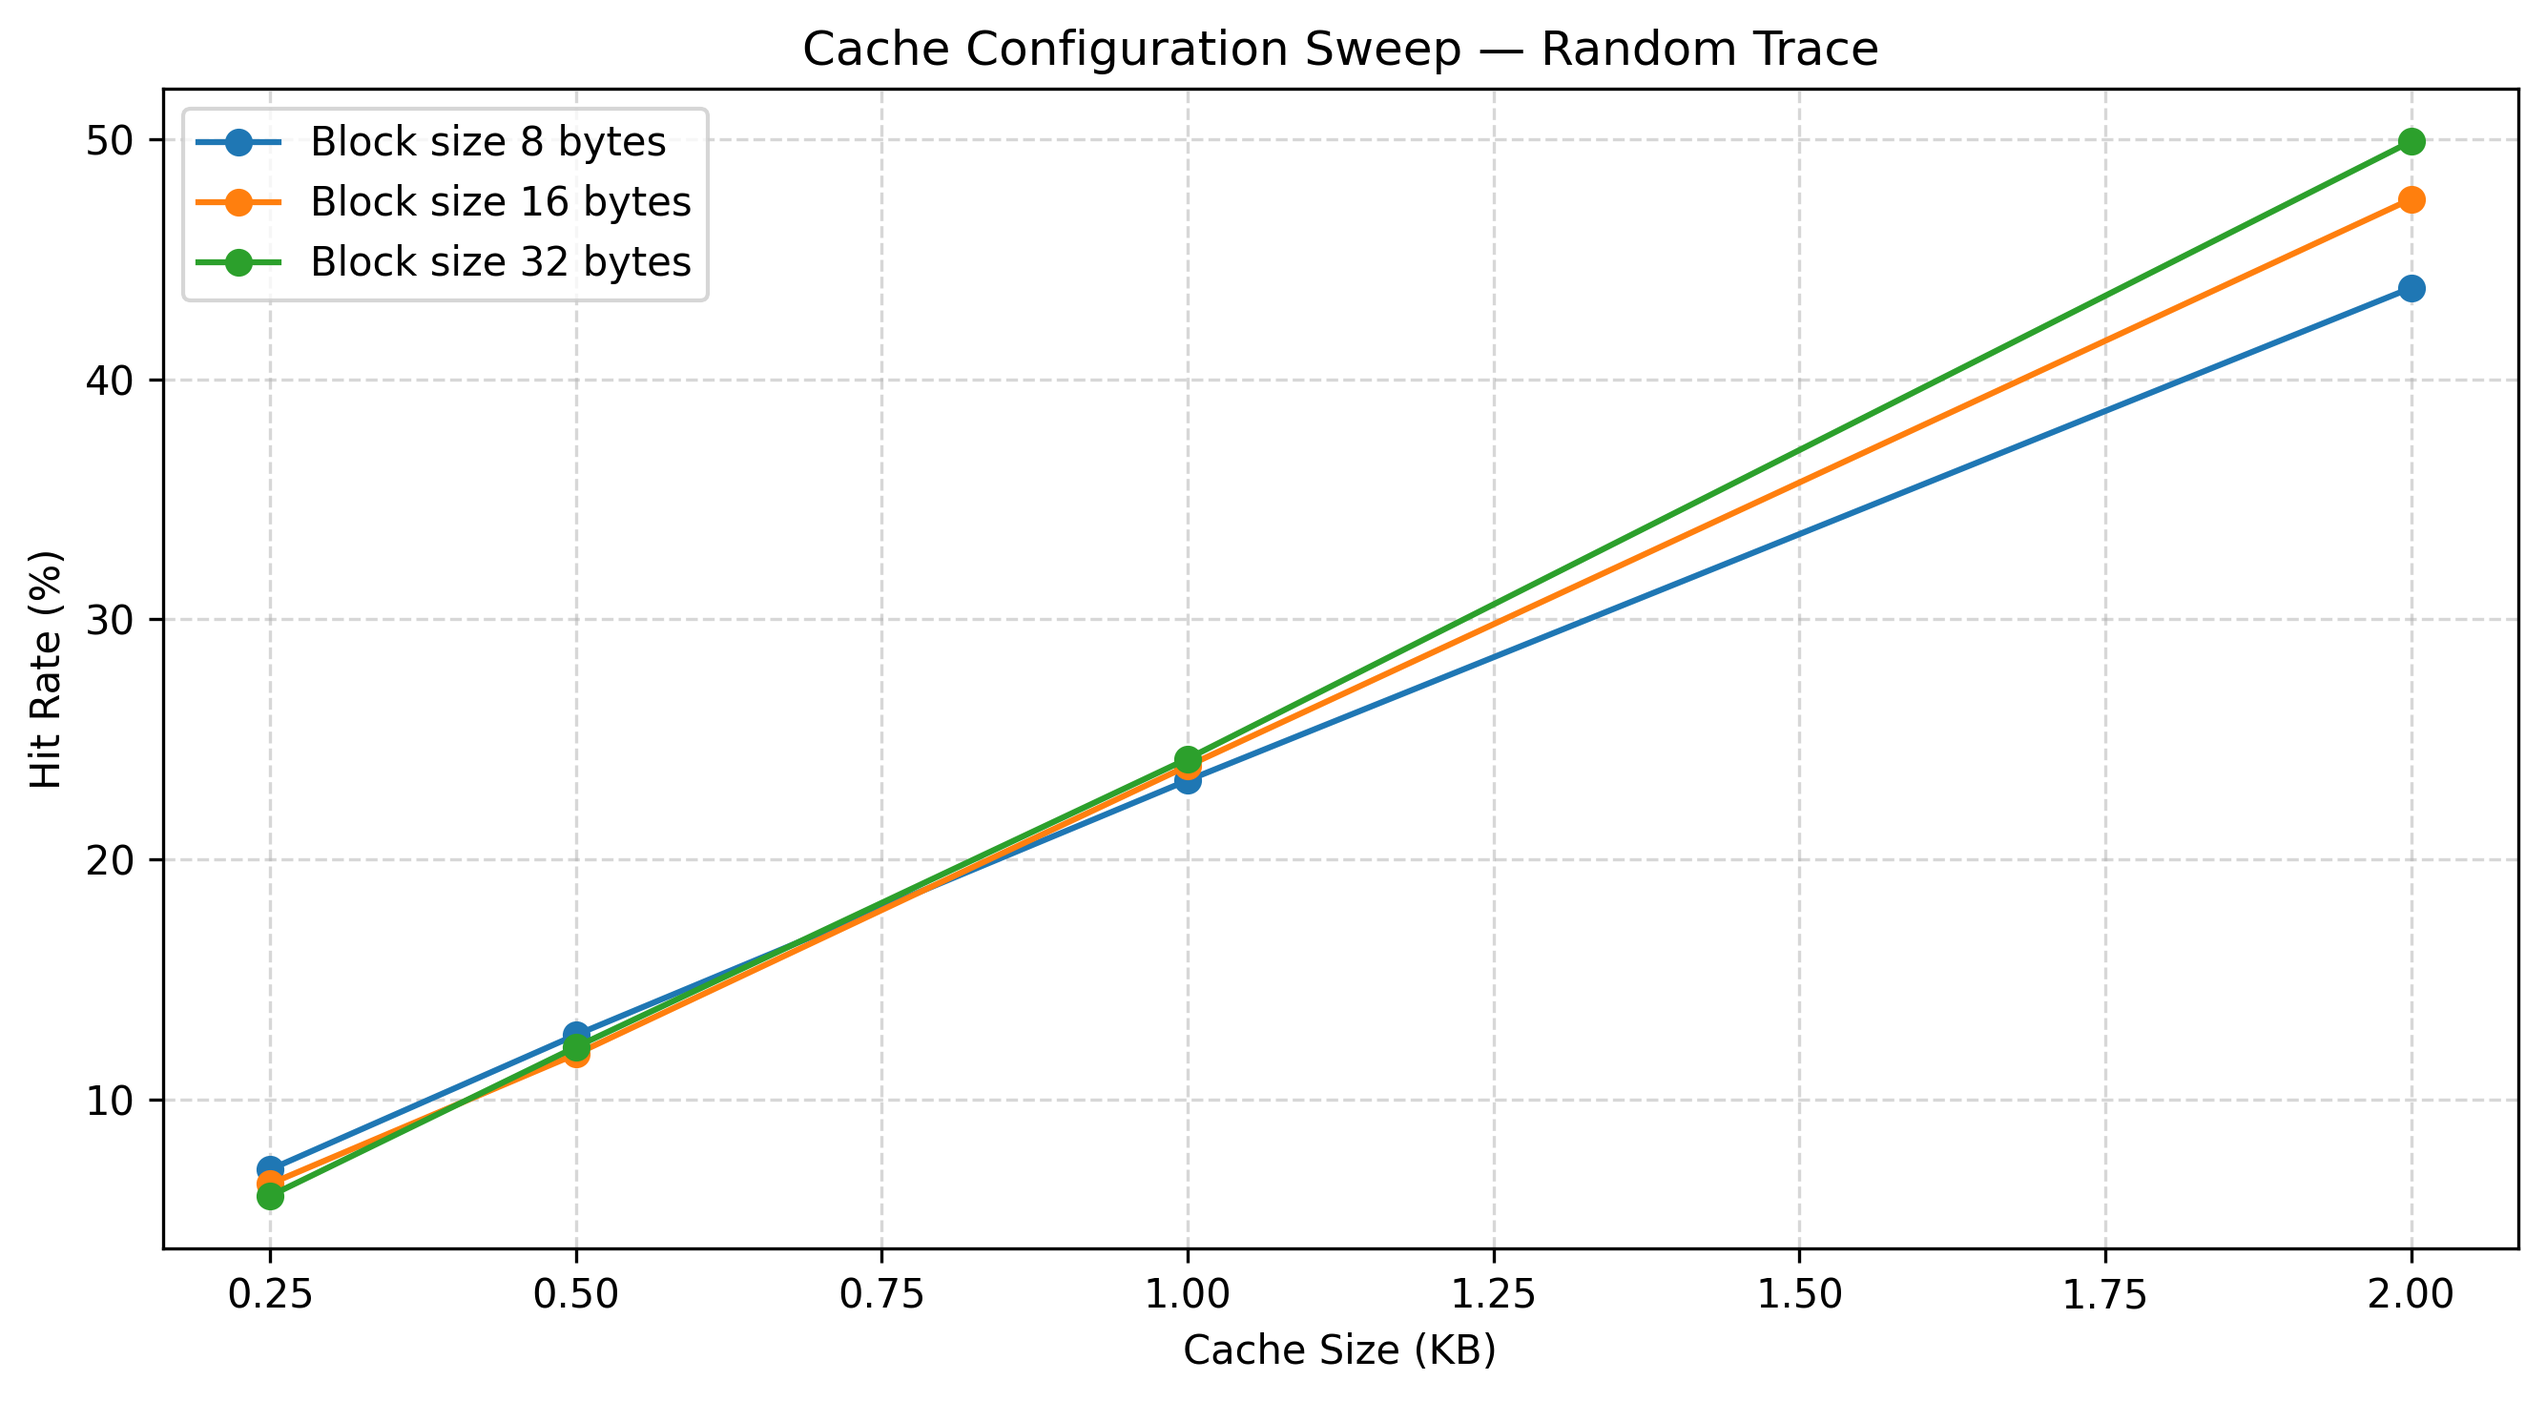
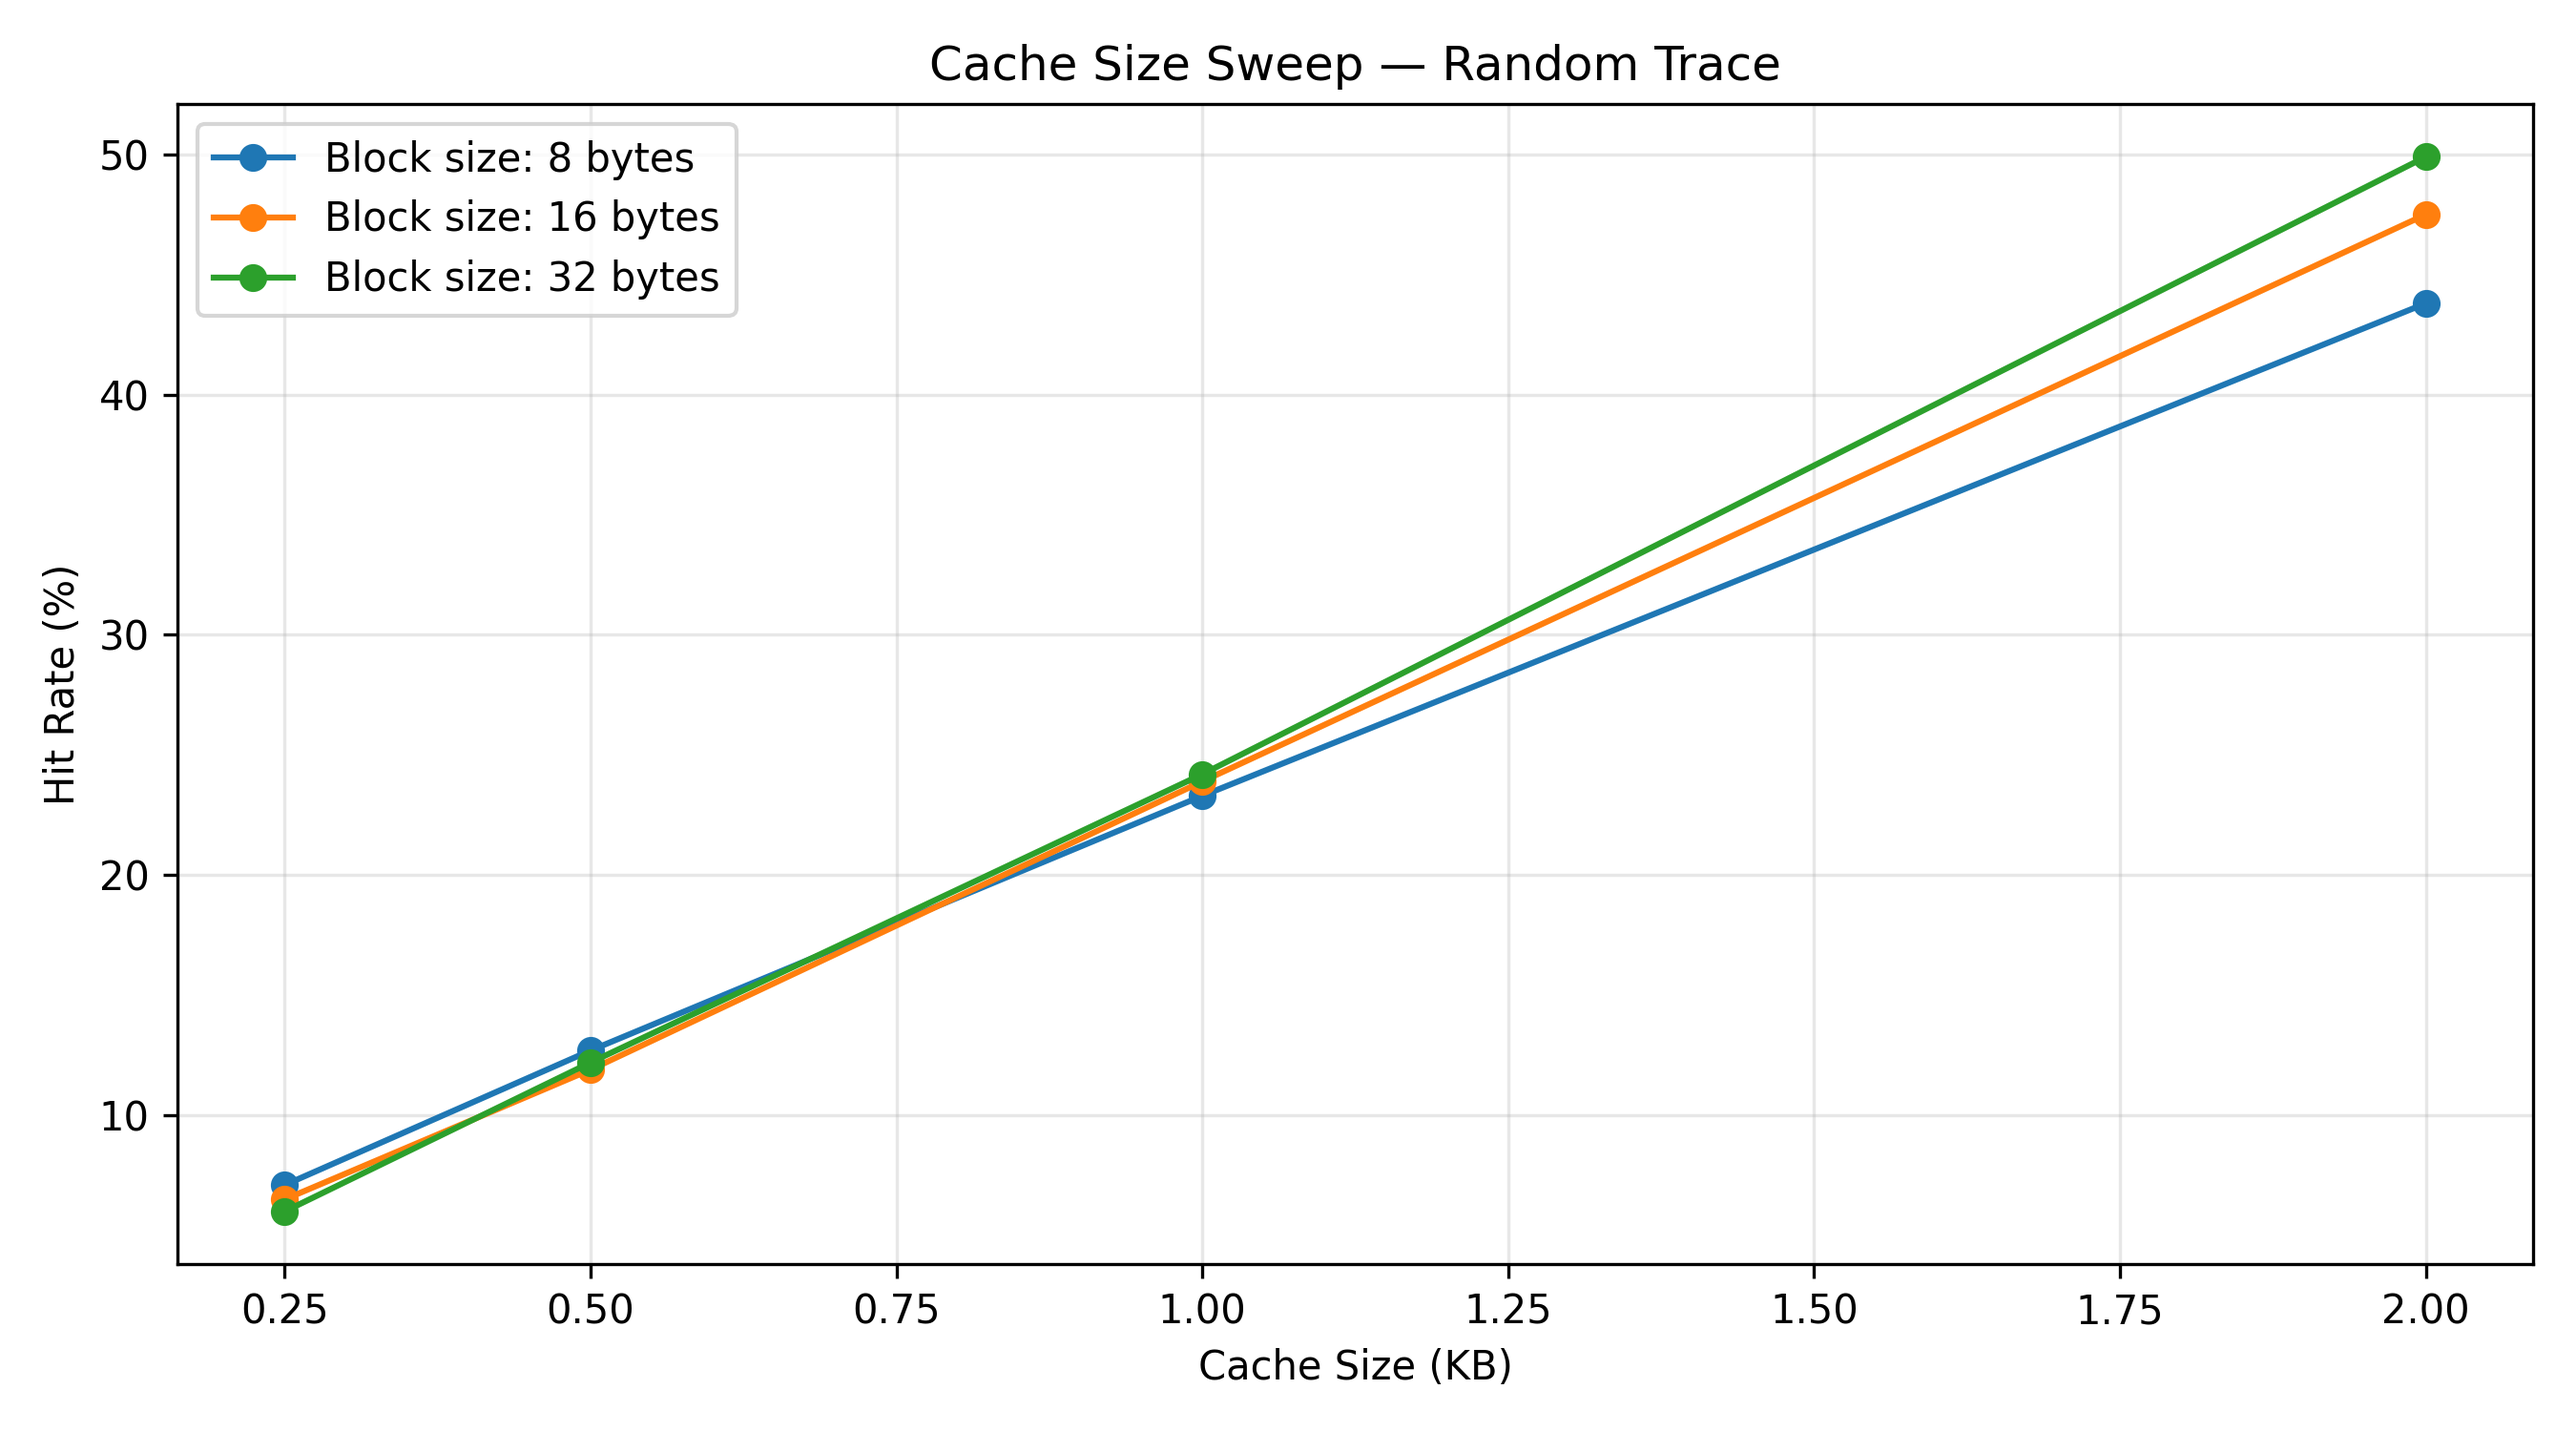
fix: finalize cache and latency sweep plots

diff --git a/scripts/plot_results.py b/scripts/plot_results.py
@@ -79,232 +79,94 @@ plt.xticks(rotation=35, ha="right")
 save_plot("amat_comparison.png")
 
 
-# --------------------------------------------------
-# 3. CACHE CONFIGURATION SWEEP
-# FIX: Plot only random trace to avoid mixing
-# random and matrix_colmajor results.
-# --------------------------------------------------
 
-sweep = read_csv("sweep.csv")
+# 3. Cache configuration sweep
+from pathlib import Path
+import pandas as pd
+import matplotlib.pyplot as plt
 
-block_sizes = sorted({
-    int(r["block_bytes"]) for r in sweep
-})
+ROOT = Path(__file__).resolve().parents[1]
+PLOTS_DIR = ROOT / "docs" / "results" / "plots"
+PLOTS_DIR.mkdir(parents=True, exist_ok=True)
+
+# Read sweep data
+sweep_file = next(ROOT.rglob("sweep.csv"))
+sweep_df = pd.read_csv(sweep_file)
+
+# IMPORTANT: Only use random trace for this plot
+random_df = sweep_df[sweep_df["trace"] == "random"].copy()
 
 plt.figure(figsize=(9, 5))
 
-for block in block_sizes:
+for block_size in sorted(random_df["block_bytes"].unique()):
+    subset = random_df[random_df["block_bytes"] == block_size].sort_values("cache_bytes")
 
-    subset = sorted(
-        [
-            r for r in sweep
-            if r["trace"] == "random"
-            and int(r["block_bytes"]) == block
-        ],
-        key=lambda r: int(r["cache_bytes"])
-    )
+    cache_kb = subset["cache_bytes"] / 1024
 
     plt.plot(
-        [int(r["cache_bytes"]) / 1024 for r in subset],
-        [float(r["hit_rate_pct"]) for r in subset],
+        cache_kb,
+        subset["hit_rate_pct"],
         marker="o",
-        label=f"Block size {block} bytes"
+        label=f"Block size: {block_size} bytes"
     )
 
 plt.xlabel("Cache Size (KB)")
 plt.ylabel("Hit Rate (%)")
-plt.title("Cache Configuration Sweep — Random Trace")
+plt.title("Cache Size Sweep — Random Trace")
 plt.legend()
-plt.grid(True, linestyle="--", alpha=0.5)
+plt.grid(True, alpha=0.3)
+plt.tight_layout()
+plt.savefig(PLOTS_DIR / "cache_sweep.png", dpi=300)
+plt.close()
 
-save_plot("cache_sweep.png")
 
+# 4. Memory latency sweep
+lat_file = next(ROOT.rglob("lat_sweep.csv"))
+lat_df = pd.read_csv(lat_file)
 
-# --------------------------------------------------
-# 4. MEMORY LATENCY SWEEP
-# FIX: One no-cache line instead of repeating
-# identical no-cache lines for every trace.
-# --------------------------------------------------
-
-latency = read_csv("lat_sweep.csv")
-first = latency[0]
-
-plt.figure(figsize=(11, 6))
-
-# Cache lines: one for each trace
-cache_columns = [
-    c for c in first
-    if c.startswith("cache_LAT")
-]
-
-cache_columns.sort(
-    key=lambda c: int(re.search(r"(\d+)$", c).group(1))
+# Identify cache and no-cache latency columns
+cache_cols = sorted(
+    [c for c in lat_df.columns if c.startswith("cache_LAT")],
+    key=lambda c: int(c.replace("cache_LAT", ""))
 )
 
-cache_x = [
-    int(re.search(r"(\d+)$", c).group(1))
-    for c in cache_columns
-]
+nocache_cols = sorted(
+    [c for c in lat_df.columns if c.startswith("nocache_LAT")],
+    key=lambda c: int(c.replace("nocache_LAT", ""))
+)
 
-for row in latency:
+latencies = [int(c.replace("cache_LAT", "")) for c in cache_cols]
 
-    cache_values = [
-        float(row[c]) for c in cache_columns
-    ]
+plt.figure(figsize=(9, 5))
 
+# One solid cache line for each trace
+for _, row in lat_df.iterrows():
     plt.plot(
-        cache_x,
-        cache_values,
+        latencies,
+        [row[c] for c in cache_cols],
         marker="o",
         label=f"{row['trace']} (cache)"
     )
 
+# One dashed no-cache line (same values across traces)
+if nocache_cols:
+    first_row = lat_df.iloc[0]
+    plt.plot(
+        latencies,
+        [first_row[c] for c in nocache_cols],
+        marker="o",
+        linestyle="--",
+        linewidth=2,
+        label="No cache"
+    )
 
-# One shared no-cache line
-nocache_columns = [
-    c for c in first
-    if c.startswith("nocache_LAT")
-]
-
-nocache_columns.sort(
-    key=lambda c: int(re.search(r"(\d+)$", c).group(1))
-)
-
-nocache_x = [
-    int(re.search(r"(\d+)$", c).group(1))
-    for c in nocache_columns
-]
-
-nocache_values = [
-    float(first[c]) for c in nocache_columns
-]
-
-plt.plot(
-    nocache_x,
-    nocache_values,
-    linestyle="--",
-    linewidth=2,
-    color="black",
-    label="No cache"
-)
-
-plt.xlabel("Memory Latency (Cycles)")
+plt.xlabel("Main Memory Latency (Cycles)")
 plt.ylabel("Average Cycles per Access")
-plt.title("Memory Latency Impact")
-plt.legend(fontsize=8)
-plt.grid(True, linestyle="--", alpha=0.5)
+plt.title("Performance vs Memory Latency")
+plt.legend()
+plt.grid(True, alpha=0.3)
+plt.tight_layout()
+plt.savefig(PLOTS_DIR / "latency_sweep.png", dpi=300)
+plt.close()
 
-save_plot("latency_sweep.png")
-
-
-# --------------------------------------------------
-# 5. ADDITIONAL CHARTS REQUESTED BY PRIYAL
-# --------------------------------------------------
-
-
-# 5A and 5B. Separate cache sweep charts
-
-def make_trace_sweep_chart(trace_name, output_filename, takeaway):
-
-    fig, ax = plt.subplots(figsize=(9, 5.5))
-
-    for block in (8, 16, 32):
-
-        subset = sorted(
-            [
-                r for r in sweep
-                if r["trace"] == trace_name
-                and int(r["block_bytes"]) == block
-            ],
-            key=lambda r: int(r["cache_bytes"])
-        )
-
-        ax.plot(
-            [int(r["cache_bytes"]) for r in subset],
-            [float(r["hit_rate_pct"]) for r in subset],
-            marker="o",
-            linewidth=2,
-            label=f"{block} B block"
-        )
-
-    ax.set_xlabel("Cache Size")
-    ax.set_ylabel("Hit Rate (%)")
-    ax.set_title(f"Hit Rate vs Cache Size — {trace_name}")
-    ax.set_xticks([256, 512, 1024, 2048])
-    ax.set_xticklabels(["256 B", "512 B", "1 KB", "2 KB"])
-    ax.set_ylim(0, 100)
-    ax.grid(True, linestyle="--", alpha=0.5)
-    ax.legend()
-
-    fig.subplots_adjust(bottom=0.23)
-    fig.text(
-        0.5, 0.06,
-        takeaway,
-        ha="center",
-        fontsize=9,
-        wrap=True
-    )
-
-    save_docs_plot(output_filename)
-
-
-make_trace_sweep_chart(
-    "random",
-    "random_cache_sweep.png",
-    "Random access hit rates vary with cache capacity and block size."
-)
-
-make_trace_sweep_chart(
-    "matrix_colmajor",
-    "matrix_colmajor_cache_sweep.png",
-    "Column-major access shows a 0% hit rate across the tested configurations."
-)
-
-
-# 5C. Hit rate comparison for all 8 traces
-# Baseline results: 1 KB cache / 16 B block
-
-fig, ax = plt.subplots(figsize=(11, 5.5))
-
-traces = [r["trace"] for r in data]
-hit_rates = [float(r["hit_rate_pct"]) for r in data]
-
-bars = ax.bar(traces, hit_rates)
-
-ax.set_xlabel("Memory Access Trace")
-ax.set_ylabel("Hit Rate (%)")
-ax.set_title("Hit Rate Across All 8 Traces (1 KB Cache / 16 B Block)")
-ax.set_ylim(0, 110)
-ax.tick_params(axis="x", rotation=35)
-ax.grid(axis="y", linestyle="--", alpha=0.5)
-
-for bar, rate in zip(bars, hit_rates):
-
-    ax.text(
-        bar.get_x() + bar.get_width() / 2,
-        bar.get_height() + 1,
-        f"{rate:.1f}%",
-        ha="center",
-        fontsize=8
-    )
-
-fig.subplots_adjust(bottom=0.32)
-
-fig.text(
-    0.5, 0.025,
-    "The chart highlights how different memory access patterns affect cache hit rate.",
-    ha="center",
-    fontsize=9,
-    wrap=True
-)
-
-save_docs_plot("trace_hit_rates.png")
-
-
-# --------------------------------------------------
-# FINISHED
-# --------------------------------------------------
-
-print("\nAll plots generated successfully!")
-print(f"Existing plots folder: {OUT}")
-print(f"Additional charts folder: {DOCS}")
+print("Updated cache_sweep.png and latency_sweep.png successfully.")
